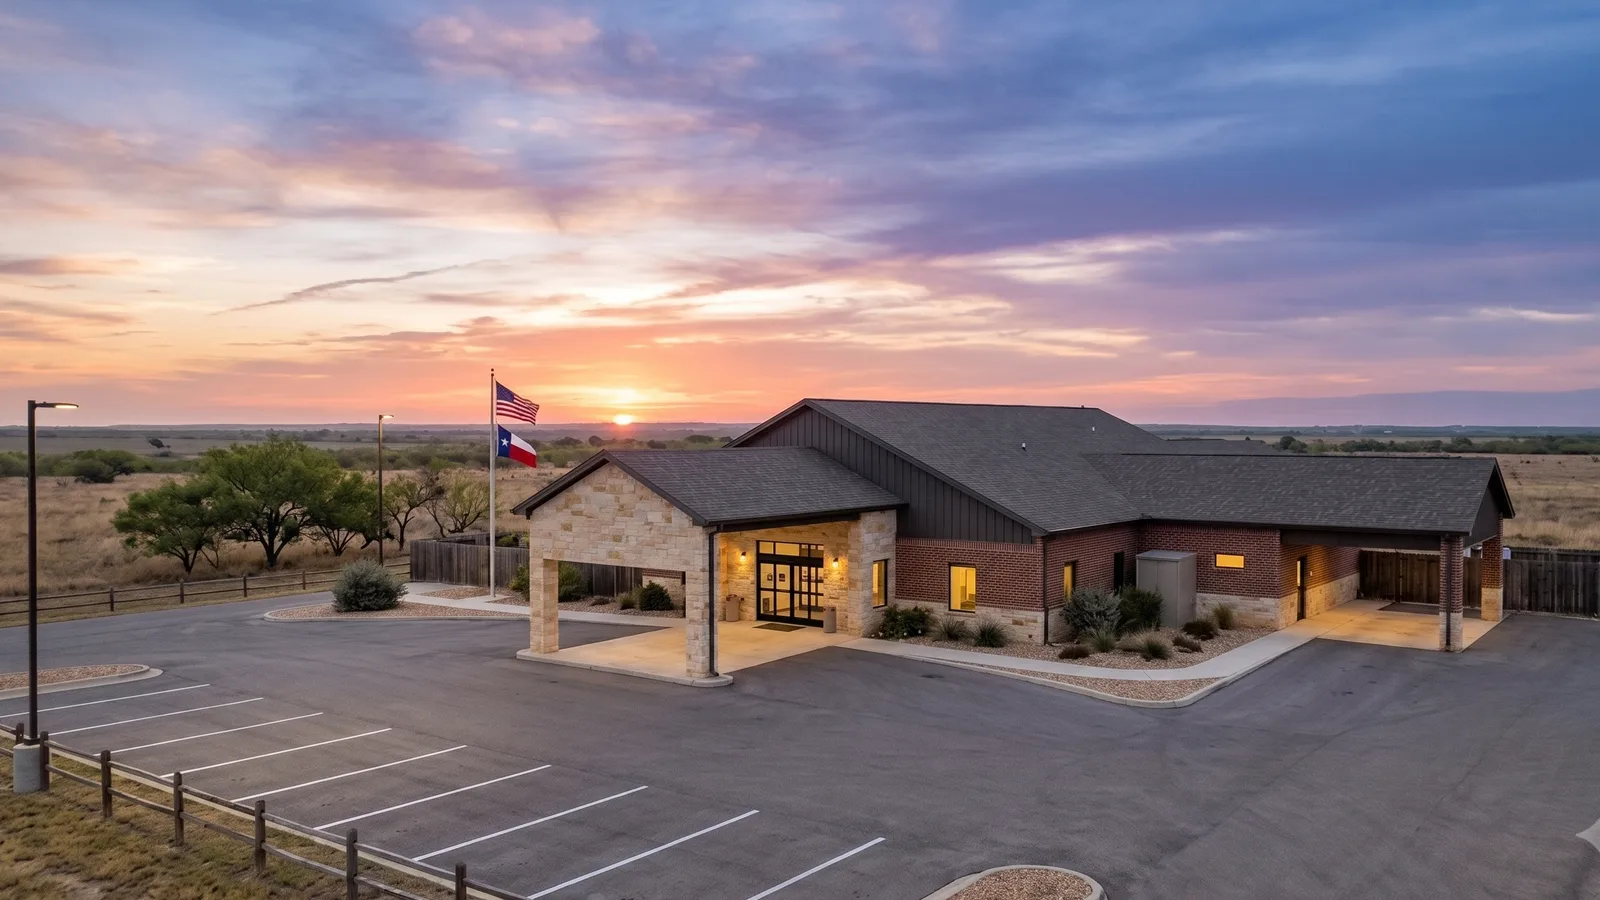
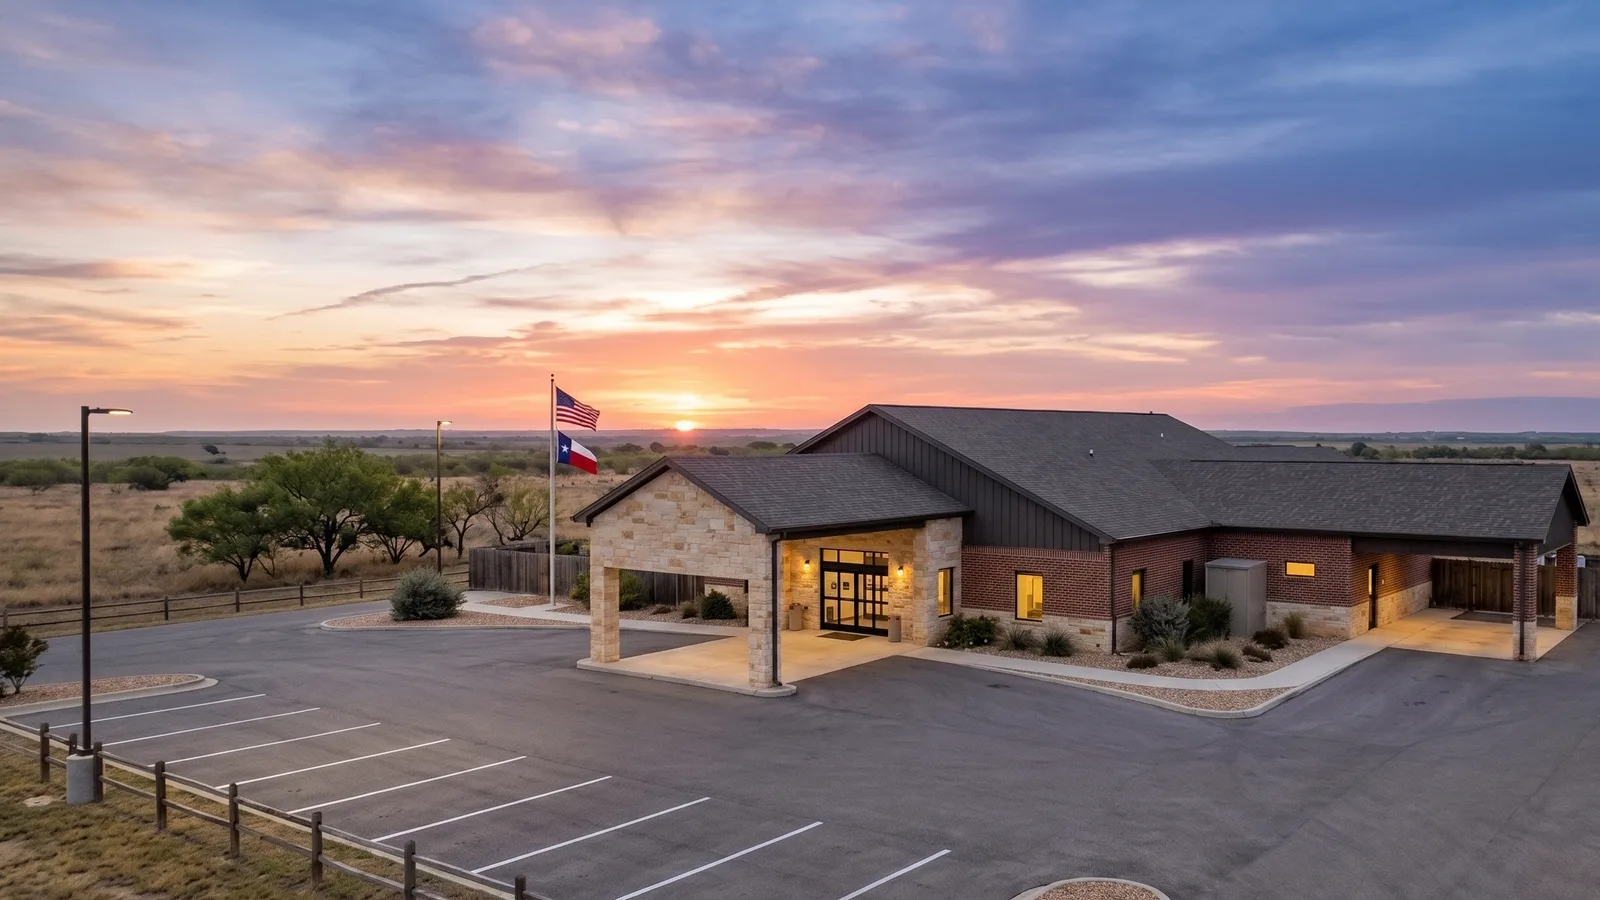
fix(images): measured watermark crop (all 12 reprocessed) + 6 new pool images + app-post hero swap
Gemini sparkle measured at ~89-95% width / 79-88% height — far deeper
than the old 6%/9% edge cuts, which left remnants (founder-caught).
New rule: cut right 13%, top-anchored 16:9 (~90% height). All existing
webps overwritten under same filenames so live posts self-heal.
New: night-shift x3 + ward-team x3 registered (2 new families).
best-nurse-scheduling-app hero: purple-scrubs Unsplash -> ward-team-02
(nurses reading a scheduling tablet) + AI-illustration caption.

diff --git a/src/data/post/best-nurse-scheduling-app.md b/src/data/post/best-nurse-scheduling-app.md
@@ -9,7 +9,8 @@ excerpt: >
   shows the moment you need credential checks or healthcare overtime logic. This guide
   reviews 8 nurse scheduling apps for small hospitals by what each one actually handles
   on a phone at midnight.
-image: https://images.unsplash.com/photo-1687966208029-2ffe095ad14a?ixlib=rb-4.0.3&auto=format&fit=crop&w=2070&q=80
+image: '~/assets/images/pool/ward-team-02.webp'
+imageCredit: 'AI-generated illustration'
 category: Healthcare Operations
 postType: bofu
 tags:
